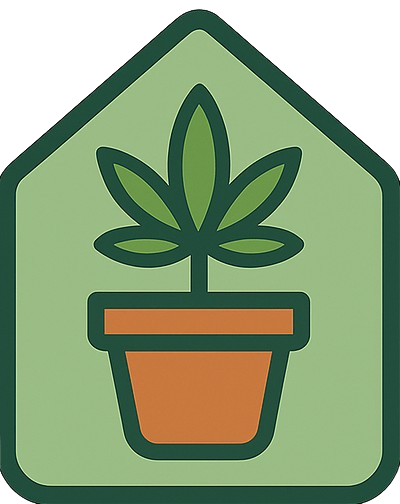
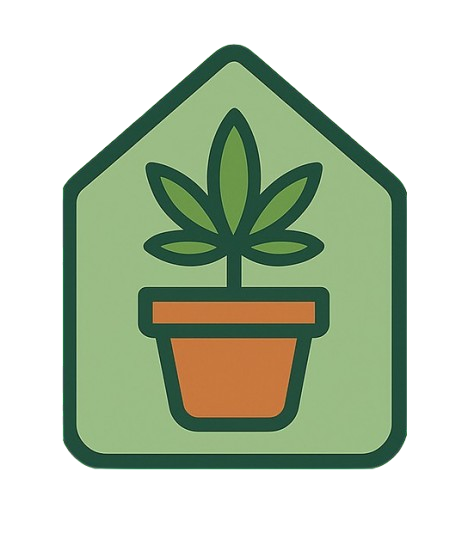
Marcador animado en mapa de dirección en el stepper de Agregar Club

diff --git a/src/components/Clubs/steps/Direccion.jsx b/src/components/Clubs/steps/Direccion.jsx
@@ -1,7 +1,10 @@
-import React, { useCallback, useRef, useEffect } from "react";
+import React, { useCallback, useRef, useEffect, useState } from "react";
 import { GoogleMap, Marker, useLoadScript } from "@react-google-maps/api";
-// Imagen del marcador personalizada (asegúrate que la ruta sea correcta)
-import userMarker from "../../../assets/club_ambos.png";
+// Imagen del marcador personalizada
+import userMarkerSVG from "../../../assets/club_ambos.svg";
+import userMarkerPNG from "../../../assets/marcador_club_ambos.png";
+import userMarkerGIF from "../../../assets/marcador_club_ambos.gif";
+
 import { deffaultLat, deffaultLng } from "../../../utils/constants";
 import PreLoader from "../../../components/PreLoader";
 import usePlacesAutocomplete, {
@@ -19,28 +22,18 @@ import {
   Paper,
 } from "@mui/material";
 
-/**
- * Componente Direccion
- * - Busca direcciones con Autocomplete de Google
- * - Permite arrastrar un marker para hacer reverse-geocoding
- * - Guarda dirección normal y una versión formateada para documentos oficiales
- *
- * Cambios mínimos aplicados:
- *  - Asegurar que lat/lng sean Numbers
- *  - Icon con scaledSize + anchor para que la imagen se vea
- *  - useEffect para hidratar el input si ya hay form.direccion (cuando vuelves al step)
- */
 export default function Direccion({ form, setForm }) {
-  // Ref para guardar la instancia del mapa (usada para panTo / setZoom)
   const mapRef = useRef(null);
 
-  // Carga de librería Google Maps (hooks siempre arriba)
+  // 🔹 icono actual del marker
+  const [markerIcon, setMarkerIcon] = useState(userMarkerSVG);
+  const [pngReady, setPngReady] = useState(false);
+
   const { isLoaded, loadError } = useLoadScript({
     googleMapsApiKey: process.env.REACT_APP_GOOGLE_MAPS_API_KEY,
     libraries: ["places"],
   });
 
-  // Hook de autocomplete
   const {
     ready,
     value,
@@ -52,10 +45,19 @@ export default function Direccion({ form, setForm }) {
     debounce: 300,
   });
 
-  /**
-   * parseAddress: extrae componentes de address_components
-   * (se usa en reverse geocode)
-   */
+  /* =========================================================
+     🔥 Precarga PNG → cuando está listo reemplaza el SVG
+     ========================================================= */
+  useEffect(() => {
+    const img = new Image();
+    img.src = userMarkerPNG;
+
+    img.onload = () => {
+      setPngReady(true);
+      setMarkerIcon(userMarkerPNG);
+    };
+  }, []);
+
   const parseAddress = (result) => {
     const components = result.address_components || [];
     const get = (type) =>
@@ -70,12 +72,6 @@ export default function Direccion({ form, setForm }) {
     };
   };
 
-  /**
-   * handleMarkerDragEnd:
-   * - Reverse geocoding cuando sueltas el marker
-   * - Actualiza form (direccion, codigo_postal, lat, lng)
-   * - Hace panTo + setZoom para centrar la vista estilo Uber
-   */
   const handleMarkerDragEnd = useCallback(
     (e) => {
       const lat = e.latLng.lat();
@@ -87,18 +83,15 @@ export default function Direccion({ form, setForm }) {
           if (status === "OK" && results[0]) {
             const parsed = parseAddress(results[0]);
 
-            // Actualiza el input del autocomplete y el form
             setValue(parsed.direccionCompleta, false);
             setForm((prev) => ({
               ...prev,
               direccion: parsed.direccionCompleta,
               codigo_postal: parsed.codigo_postal,
-              // guardamos números (seguro)
               lat: Number(lat),
               lng: Number(lng),
             }));
 
-            // Centrar mapa si ya está la instancia
             if (mapRef.current) {
               mapRef.current.panTo({ lat: Number(lat), lng: Number(lng) });
               mapRef.current.setZoom(16);
@@ -112,12 +105,6 @@ export default function Direccion({ form, setForm }) {
     [setForm, setValue]
   );
 
-  /**
-   * handleSelect:
-   * - Cuando eliges una sugerencia del autocomplete
-   * - Geocodifica, extrae componentes y construye direccion_formateada
-   * - Guarda lat/lng como Number y hace panTo+setZoom en el mapa
-   */
   const handleSelect = async (address) => {
     setValue(address, false);
     clearSuggestions();
@@ -133,9 +120,7 @@ export default function Direccion({ form, setForm }) {
 
       const calle = get("route");
       const numero = get("street_number");
-      const colonia =
-        get("sublocality") ||
-        get("neighborhood");
+      const colonia = get("sublocality") || get("neighborhood");
       const ciudad = get("locality");
       const estado = get("administrative_area_level_1");
       const cp = get("postal_code");
@@ -154,7 +139,6 @@ export default function Direccion({ form, setForm }) {
       const latNum = Number(lat);
       const lngNum = Number(lng);
 
-      // Guardamos en form (lat/lng como números)
       setForm((prev) => ({
         ...prev,
         direccion: result.formatted_address,
@@ -164,7 +148,6 @@ export default function Direccion({ form, setForm }) {
         lng: lngNum,
       }));
 
-      // panTo + setZoom si el mapa ya está inicializado
       if (mapRef.current) {
         mapRef.current.panTo({ lat: latNum, lng: lngNum });
         mapRef.current.setZoom(16);
@@ -174,25 +157,15 @@ export default function Direccion({ form, setForm }) {
     }
   };
 
-  /**
-   * Al volver al step: si ya existe form.direccion y el input está vacío,
-   * lo rellenamos para que el usuario vea la dirección y el autocomplete muestre el texto.
-   * Esto ayuda a "hidratar" la UI cuando regresas al paso.
-   */
   useEffect(() => {
     if (form.direccion && !value) {
       setValue(form.direccion, false);
     }
-    // eslint-disable-next-line react-hooks/exhaustive-deps
   }, [form.direccion]);
 
-
-
-  // Returns condicionales: si hay error o aún no carga la librería
   if (loadError) return <div>Error al cargar el mapa</div>;
   if (!isLoaded) return <PreLoader texto="Cargando Mapa..." />;
 
-  // Centro del mapa (siempre como número)
   const center = {
     lat: Number(form.lat) || deffaultLat,
     lng: Number(form.lng) || deffaultLng,
@@ -200,12 +173,10 @@ export default function Direccion({ form, setForm }) {
 
   return (
     <Box>
-      {/* Título */}
       <Typography variant="h6" mb={2}>
         📍 Buscar dirección
       </Typography>
 
-      {/* Input controlado por usePlacesAutocomplete */}
       <TextField
         label="Dirección"
         value={typeof value === "string" ? value : ""}
@@ -213,21 +184,10 @@ export default function Direccion({ form, setForm }) {
         disabled={!ready}
         fullWidth
         margin="normal"
-        placeholder="Escribe calle, colonia, ciudad..."
       />
 
-      {/* Lista de sugerencias del Autocomplete */}
       {status === "OK" && (
-        <List
-          sx={{
-            maxHeight: 200,
-            overflowY: "auto",
-            bgcolor: "background.paper",
-            mb: 2,
-            borderRadius: 1,
-            boxShadow: 1,
-          }}
-        >
+        <List sx={{ maxHeight: 200, overflowY: "auto", mb: 2 }}>
           {data.map(({ place_id, description }) => (
             <ListItem key={place_id} disablePadding>
               <ListItemButton onClick={() => handleSelect(description)}>
@@ -238,71 +198,44 @@ export default function Direccion({ form, setForm }) {
         </List>
       )}
 
-      {/* Mapa */}
       <GoogleMap
         mapContainerStyle={{ width: "100%", height: "420px", borderRadius: 8 }}
         zoom={15}
         center={center}
         onLoad={(map) => (mapRef.current = map)}
       >
-        {/*
-          Render del Marker:
-          - Solo si hay lat/lng en form (manteniendo tu chequeo original)
-          - position usa Number(...) para evitar strings
-          - icon con url + scaledSize + anchor para que la imagen personalizada se muestre correctamente
-        */}
         {form.lat != null && form.lng != null && (
           <Marker
+            key={markerIcon} // 👈 fuerza cambio real del icono
             position={{
               lat: Number(form.lat) || center.lat,
               lng: Number(form.lng) || center.lng,
             }}
             draggable
             onDragEnd={handleMarkerDragEnd}
-            icon={
-              // Usamos la API de Google para scaledSize y anchor (estamos dentro de isLoaded)
-              window.google && window.google.maps
-                ? {
-                    url: userMarker,
-                    // tamaño visible del icono
-                    scaledSize: new window.google.maps.Size(40, 40),
-                    // ancla: centrar horizontal y situar la punta abajo
-                    anchor: new window.google.maps.Point(20, 40),
-                  }
-                : {
-                    url: userMarker,
-                  }
+            onMouseOver={() => setMarkerIcon(userMarkerGIF)}
+            onMouseOut={() =>
+              setMarkerIcon(pngReady ? userMarkerPNG : userMarkerSVG)
             }
+            icon={{
+              url: markerIcon,
+              scaledSize: new window.google.maps.Size(52, 52),
+              anchor: new window.google.maps.Point(20, 40),
+            }}
           />
         )}
       </GoogleMap>
 
-      {/* Número interior abajo, centrado y con estilo bonito */}
       <Box mt={3} display="flex" justifyContent="center">
-        <Paper
-          elevation={3}
-          sx={{
-            width: { xs: "100%", sm: "60%", md: "45%" },
-            p: 2,
-            borderRadius: 2,
-            display: "flex",
-            flexDirection: "column",
-            gap: 1,
-            alignItems: "center",
-          }}
-        >
-          <Typography variant="subtitle2" color="text.secondary">
-            ¿Número interior?
-          </Typography>
-
+        <Paper elevation={3} sx={{ width: "60%", p: 2 }}>
+          <Typography variant="subtitle2">¿Número interior?</Typography>
           <TextField
             size="small"
-            placeholder="Ej. 3B"
             value={form.numero_interior || ""}
             onChange={(e) =>
               setForm((prev) => ({ ...prev, numero_interior: e.target.value }))
             }
-            sx={{ width: "100%" }}
+            fullWidth
           />
         </Paper>
       </Box>
